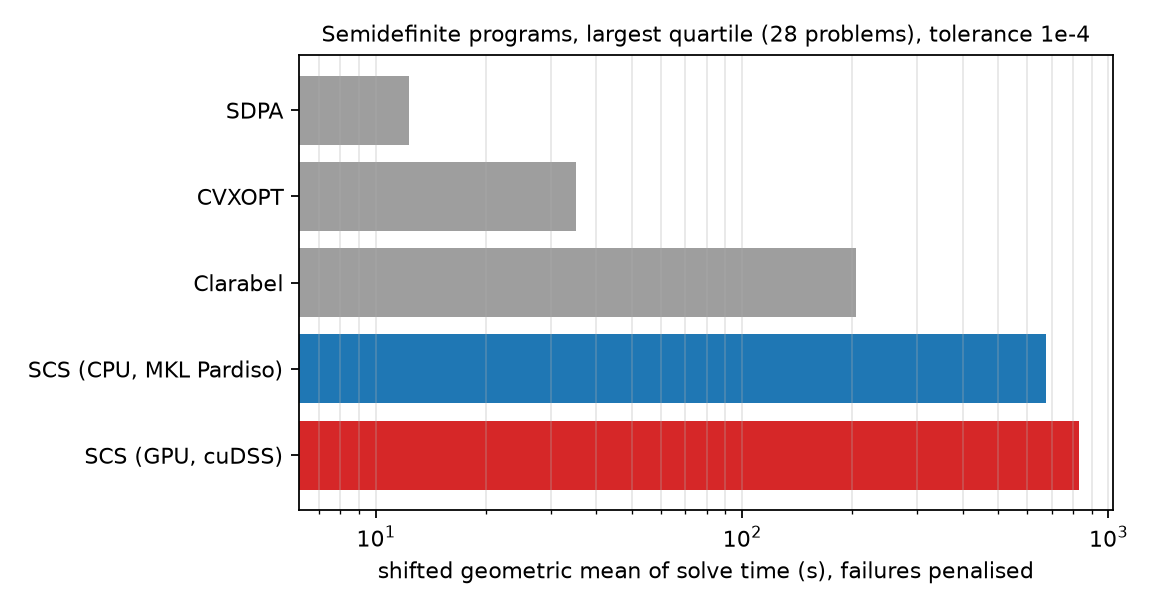
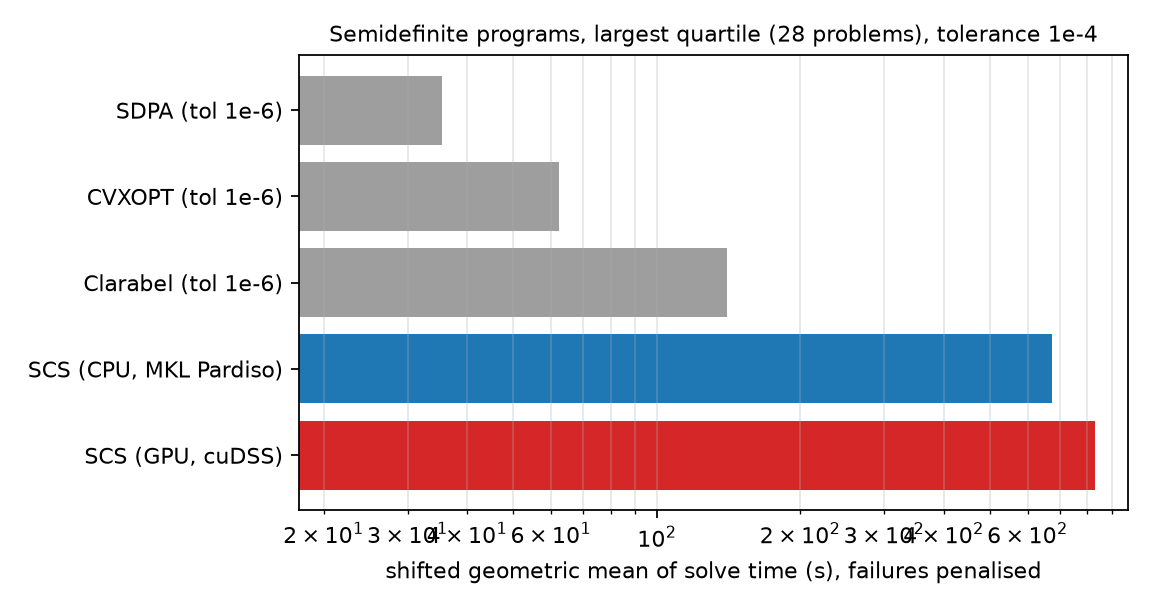
docs: show interior-point solvers from their 1e-6 runs; add achieved-accuracy table
Clarabel, PIQP, HiGHS, SDPA and CVXOPT are shown from their 1e-6 runs in
every plot (legends say so): their defaults are 1e-7 to 1e-8, and Clarabel's
1e-4 termination leaves much looser unscaled residuals on SDP than the other
solvers'. Adds a table of achieved accuracy per solver and the Clarabel 1e-6
Mittelmann run (limit-bound instances carried over from the 1e-4 run).

diff --git a/docs/src/benchmarks/index.rst b/docs/src/benchmarks/index.rst
@@ -39,12 +39,121 @@ first-order methods, SCS included, occasionally declare convergence on badly
 scaled problems where the unscaled residuals are large. Applying the same
 independent check to every solver makes the comparison tolerance-fair.
 
-**Tolerances.** Every solver was run at a requested relative tolerance of
-:math:`10^{-4}` (the headline plots) and :math:`10^{-6}` (the high-accuracy
-plots), passing the tolerance through each solver's own absolute and relative
-settings. For SCS this means ``eps_abs = eps_rel = tol`` with the iteration limit
-raised so that only the time limit can stop it; all other settings were left at
-their defaults.
+**Tolerances.** The first-order solvers (SCS, OSQP, ProxQP, PDLP and cuOpt)
+were run at a requested relative tolerance of :math:`10^{-4}`, which is also
+SCS's default, for the headline plots, and at :math:`10^{-6}` for the
+high-accuracy plots, passing the tolerance through each solver's own absolute
+and relative settings; for SCS this means ``eps_abs = eps_rel = tol`` with the
+iteration limit raised so that only the time limit can stop it. The
+interior-point and simplex solvers (Clarabel, PIQP, HiGHS, SDPA and CVXOPT)
+are shown from their :math:`10^{-6}` runs in every plot, and the legends say
+so. Nobody runs an interior-point solver at :math:`10^{-4}`: their defaults
+are :math:`10^{-7}` to :math:`10^{-8}`, the last few iterations are nearly
+free, and a loose setting would show them faster than a user ever sees them.
+It also removes a real comparability problem: Clarabel's termination test can
+leave large unscaled residuals when some terms in it are very large, and at
+:math:`10^{-4}` on the SDP sets its solutions were up to a hundred times
+looser than everyone else's. Every solve, whatever was requested, is then
+verified independently at ten times the plot's tolerance.
+
+A requested tolerance means different things to different solvers, so the
+table below reports the accuracy actually achieved, measured the same way for
+everyone: the largest of the three relative KKT residuals over the solves each
+solver itself reported optimal, at the :math:`10^{-4}` setting. The
+first-order solvers land at the requested tolerance; the interior-point and
+simplex codes overshoot it by orders of magnitude, except Clarabel on SDP;
+cuOpt's LP path and ProxQP have a long tail of returns that are far from
+optimal.
+
+.. list-table:: Achieved accuracy: median and 90th percentile of the largest relative KKT residual over the solves each solver reported optimal, at the 1e-4 and 1e-6 settings
+   :header-rows: 2
+   :widths: 22 13 13 13 13 13 13
+
+   * - Solver
+     - QP 1e-4
+     -
+     - LP 1e-4
+     -
+     - SDP 1e-4
+     -
+   * -
+     - median
+     - 90th
+     - median
+     - 90th
+     - median
+     - 90th
+   * - SCS (CPU)
+     - 1e-5
+     - 1e-4
+     - 3e-5
+     - 9e-5
+     - 9e-5
+     - 1e-4
+   * - SCS (GPU, cuDSS)
+     - 2e-5
+     - 9e-5
+     - 3e-5
+     - 1e-4
+     - 8e-5
+     - 1e-4
+   * - OSQP
+     - 3e-5
+     - 1e-4
+     - 6e-5
+     - 1e-4
+     - --
+     - --
+   * - PDLP (OR-Tools)
+     - --
+     - --
+     - 1e-4
+     - 8e-4
+     - --
+     - --
+   * - ProxQP
+     - 8e-5
+     - 3e-2
+     - --
+     - --
+     - --
+     - --
+   * - cuOpt (GPU)
+     - 2e-8
+     - 1e-6
+     - 1e-4
+     - 1e+00
+     - --
+     - --
+   * - Clarabel
+     - 1e-5
+     - 6e-5
+     - 2e-5
+     - 1e-4
+     - 3e-4
+     - 5e-3
+   * - PIQP
+     - 4e-10
+     - 1e-7
+     - 2e-10
+     - 6e-8
+     - --
+     - --
+   * - HiGHS
+     - 1e-7
+     - 3e-4
+     - 8e-16
+     - 1e-10
+     - --
+     - --
+   * - CVXOPT
+     - --
+     - --
+     - --
+     - --
+     - 2e-5
+     - 8e-5
+
 
 **Timing.** The reported time is wall-clock time for the solver call, including
 any presolve, factorization and GPU transfer, but excluding reading the problem
@@ -88,11 +197,11 @@ Quadratic programs
 
 221 problems: Maros-Meszaros (138), the convex continuous QPLIB instances and
 the ``qpbenchmark`` MPC set. On the largest quarter of these, SCS with cuDSS
-has the lowest shifted geometric mean solve time of any solver, and SCS on the
-CPU is within 10% of PIQP, the fastest interior-point code, with the same
-number of verified solves. Over all 221 problems the interior-point solvers
-PIQP and Clarabel are faster on the small instances, where an SCS solve is
-dominated by fixed setup cost, but SCS solves as many problems as they do.
+has the lowest shifted geometric mean solve time of any solver, SCS on the CPU
+sits between Clarabel and PIQP, and the two SCS variants verify the most
+solutions. Over all 221 problems the interior-point solvers are faster on the
+small instances, where an SCS solve is dominated by fixed setup cost, but SCS
+solves nearly as many problems as they do.
 
 .. figure:: ../files/bench/qp_1e-4_profile_largest.png
    :width: 90 %
@@ -128,24 +237,24 @@ first-order solver by a wide margin.
      - gm 1e-6
      - solved 1e-6 (largest)
      - gm 1e-6 (largest)
-   * - PIQP
+   * - Clarabel (tol 1e-6)
      - 216
-     - 2.1
+     - 2.2
      - 52
      - 9.7
-     - 214
-     - 2.5
-     - 50
-     - 11.4
-   * - Clarabel
-     - 213
-     - 2.6
-     - 49
-     - 13.0
      - 212
      - 3.0
      - 49
      - 13.9
+   * - PIQP (tol 1e-6)
+     - 214
+     - 2.5
+     - 50
+     - 11.4
+     - 214
+     - 2.5
+     - 50
+     - 11.4
    * - SCS (GPU, cuDSS)
      - 210
      - 4.4
@@ -182,11 +291,11 @@ first-order solver by a wide margin.
      - 25.2
      - 30
      - 80.8
-   * - HiGHS
-     - 162
-     - 27.7
+   * - HiGHS (tol 1e-6)
+     - 161
+     - 28.1
      - 24
-     - 164.8
+     - 163.6
      - 144
      - 43.2
      - 17
@@ -209,11 +318,11 @@ Linear programs
 345 problems: Netlib, Kennington, the MIPLIB 2017 LP relaxations up to 20 MB
 and the Mittelmann LP set. SCS is not an LP solver and is not marketed as one,
 so this comparison is included mainly to show that it is not a bad one: on the
-largest quarter of the LP set SCS with cuDSS verifies the most solutions of any
-solver and is second only to HiGHS (dual simplex) in geometric mean time,
-ahead of the interior-point solvers PIQP and Clarabel. Both PDLP
-implementations, which are first-order LP methods, trail SCS by a wide margin
-under independent verification (see the notes below).
+largest quarter of the LP set SCS with cuDSS verifies as many solutions as
+HiGHS (dual simplex) and is second only to it in geometric mean time, ahead of
+the interior-point solvers PIQP and Clarabel. Both PDLP implementations, which
+are first-order LP methods, trail SCS by a wide margin under independent
+verification (see the notes below).
 
 .. figure:: ../files/bench/lp_1e-4_profile_largest.png
    :width: 90 %
@@ -244,24 +353,33 @@ under independent verification (see the notes below).
      - gm 1e-6
      - solved 1e-6 (largest)
      - gm 1e-6 (largest)
-   * - HiGHS
-     - 329
-     - 5.3
-     - 74
-     - 27.1
+   * - HiGHS (tol 1e-6)
      - 331
      - 4.8
      - 75
      - 25.0
-   * - PIQP
-     - 318
-     - 8.5
-     - 68
-     - 40.6
+     - 331
+     - 4.8
+     - 75
+     - 25.0
+   * - PIQP (tol 1e-6)
+     - 316
+     - 8.6
+     - 66
+     - 42.2
      - 310
      - 9.8
      - 65
      - 43.0
+   * - Clarabel (tol 1e-6)
+     - 324
+     - 9.5
+     - 71
+     - 59.2
+     - 312
+     - 12.4
+     - 66
+     - 72.7
    * - SCS (GPU, cuDSS)
      - 316
      - 10.8
@@ -280,15 +398,6 @@ under independent verification (see the notes below).
      - 18.9
      - 62
      - 79.2
-   * - Clarabel
-     - 315
-     - 11.2
-     - 67
-     - 65.3
-     - 312
-     - 12.4
-     - 66
-     - 72.7
    * - PDLP (OR-Tools)
      - 281
      - 23.9
@@ -358,24 +467,33 @@ an interior-point solver.
      - gm 1e-6
      - solved 1e-6 (largest)
      - gm 1e-6 (largest)
-   * - SDPA
-     - 80
-     - 21.7
-     - 27
-     - 12.3
+   * - SDPA (tol 1e-6)
+     - 72
+     - 38.0
+     - 23
+     - 35.5
      - 66
      - 53.5
      - 23
      - 35.5
-   * - CVXOPT
-     - 79
-     - 38.4
-     - 25
-     - 35.3
+   * - CVXOPT (tol 1e-6)
+     - 73
+     - 51.6
+     - 22
+     - 62.4
      - 59
      - 108.0
      - 20
      - 88.4
+   * - Clarabel (tol 1e-6)
+     - 61
+     - 80.5
+     - 16
+     - 140.3
+     - 47
+     - 139.1
+     - 11
+     - 240.2
    * - SCS (CPU, MKL Pardiso)
      - 76
      - 98.0
@@ -394,15 +512,6 @@ an interior-point solver.
      - --
      - --
      - --
-   * - Clarabel
-     - 48
-     - 137.0
-     - 13
-     - 204.6
-     - 47
-     - 139.1
-     - 11
-     - 240.2
 
 .. _bench_lpbig:
 
@@ -452,9 +561,9 @@ notes below).
    * - PDLP (OR-Tools)
      - 19
      - 325
-   * - Clarabel
-     - 19
-     - 360
+   * - Clarabel (tol 1e-6)
+     - 20
+     - 372
    * - PIQP
      - 12
      - 428
